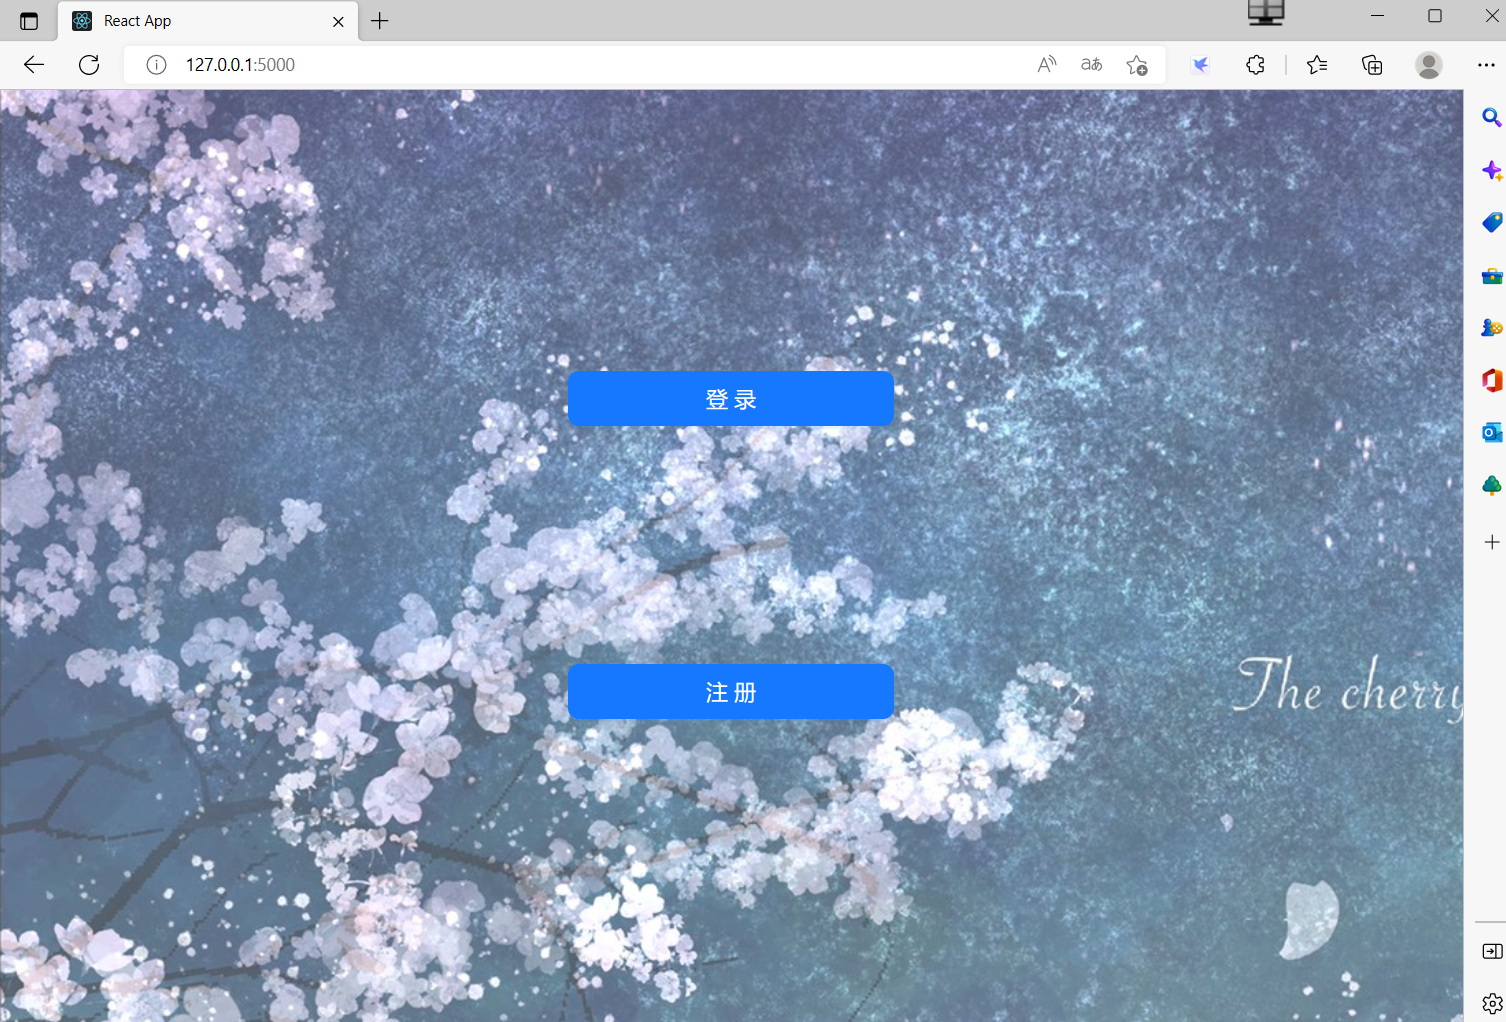
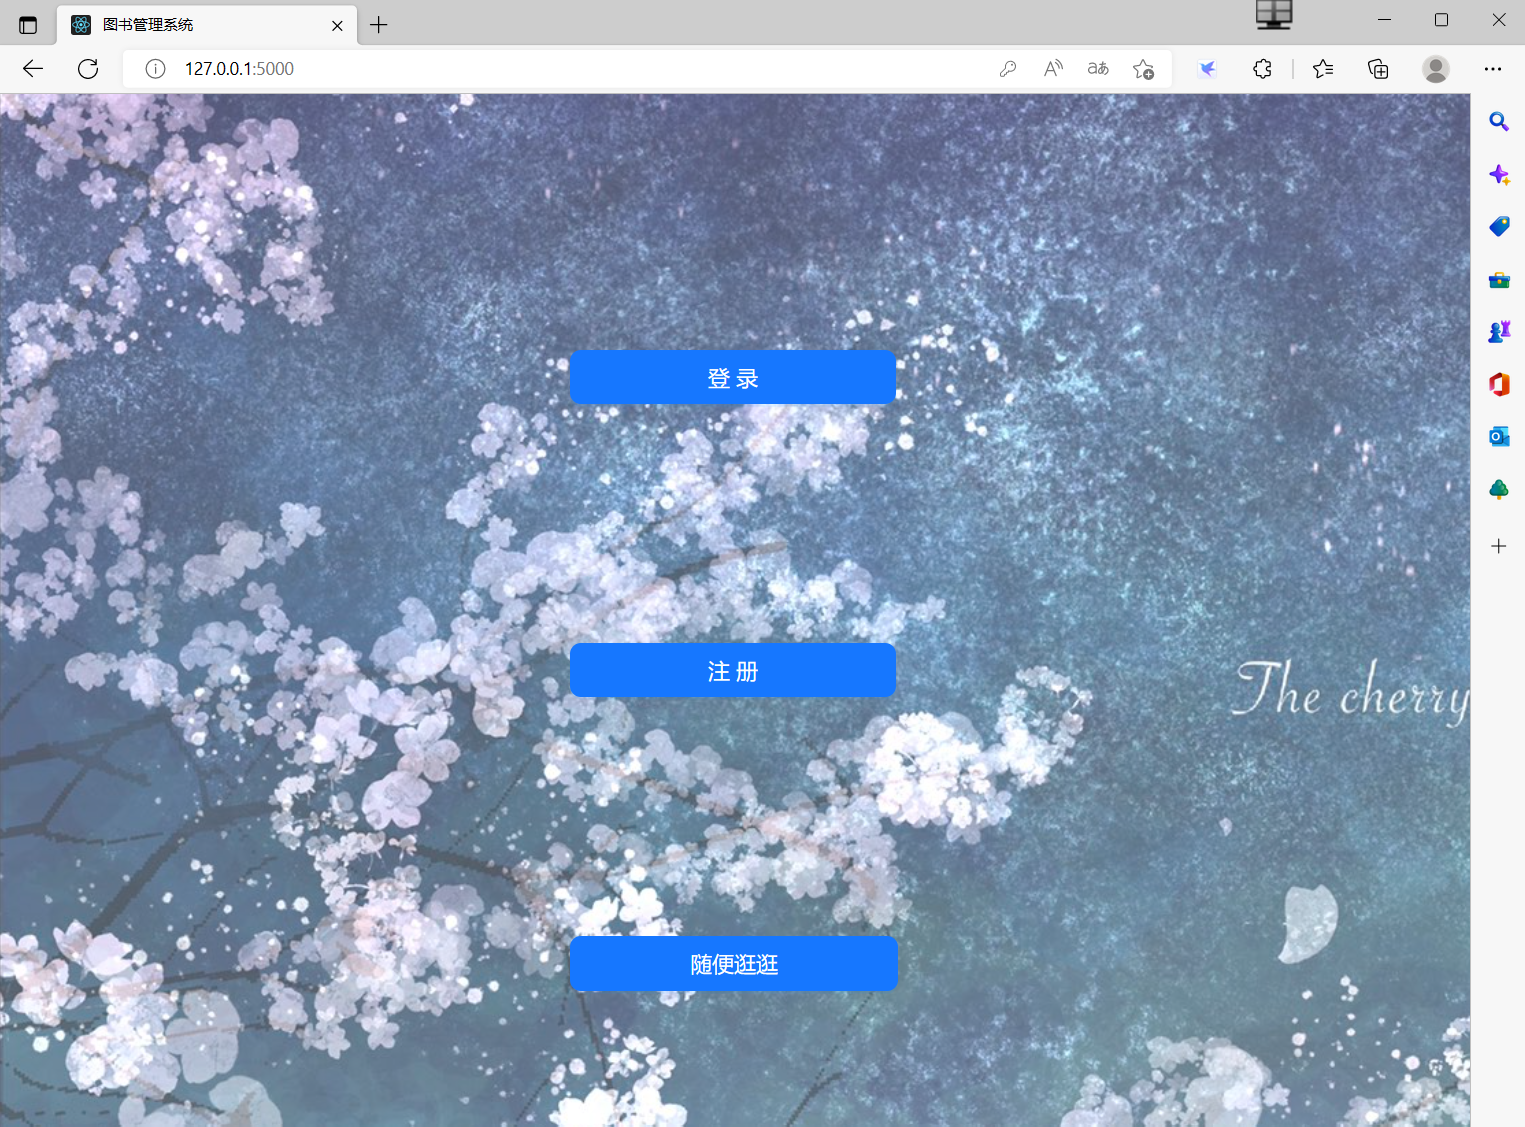
update readme

diff --git a/README.md b/README.md
@@ -2,7 +2,7 @@
 
 ## 概述
 
-前端页面基于React + React-Router + Antd开发，后端页面基于Python的Flask框架进行开发。主要功能分为三部分：
+前端页面基于 React + React-Router + Antd 开发，后端页面基于 Python 的 Flask 框架进行开发。主要功能分为三部分：
 
 **普通用户**
 
@@ -57,6 +57,14 @@ SQLALCHEMY_TRACK_MODIFICATIONS=False
 起始页
 
 ![](screenshot/1.png)
+
+点击随便逛逛，在登录前可以预览图书信息
+
+![](screenshot/2.png)
+
+进行相关操作时，提示登录才能完成
+
+![](screenshot/3.png)
 
 登录及注册页
 
